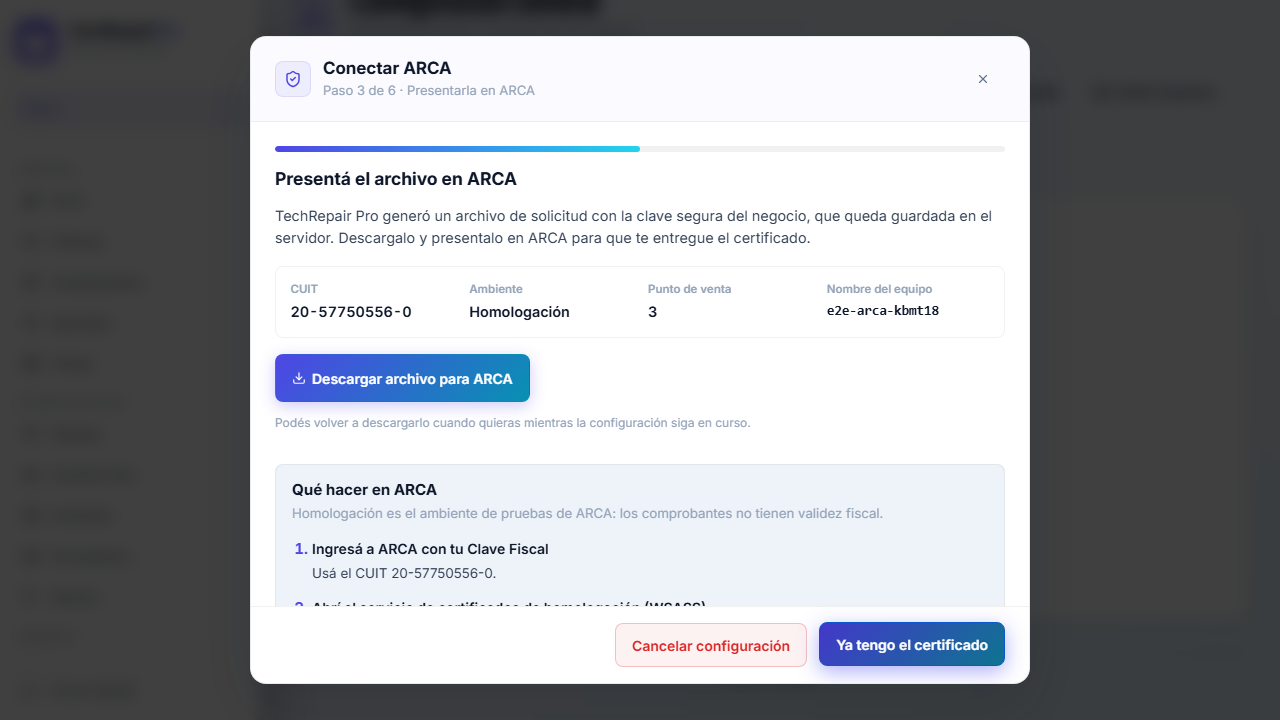
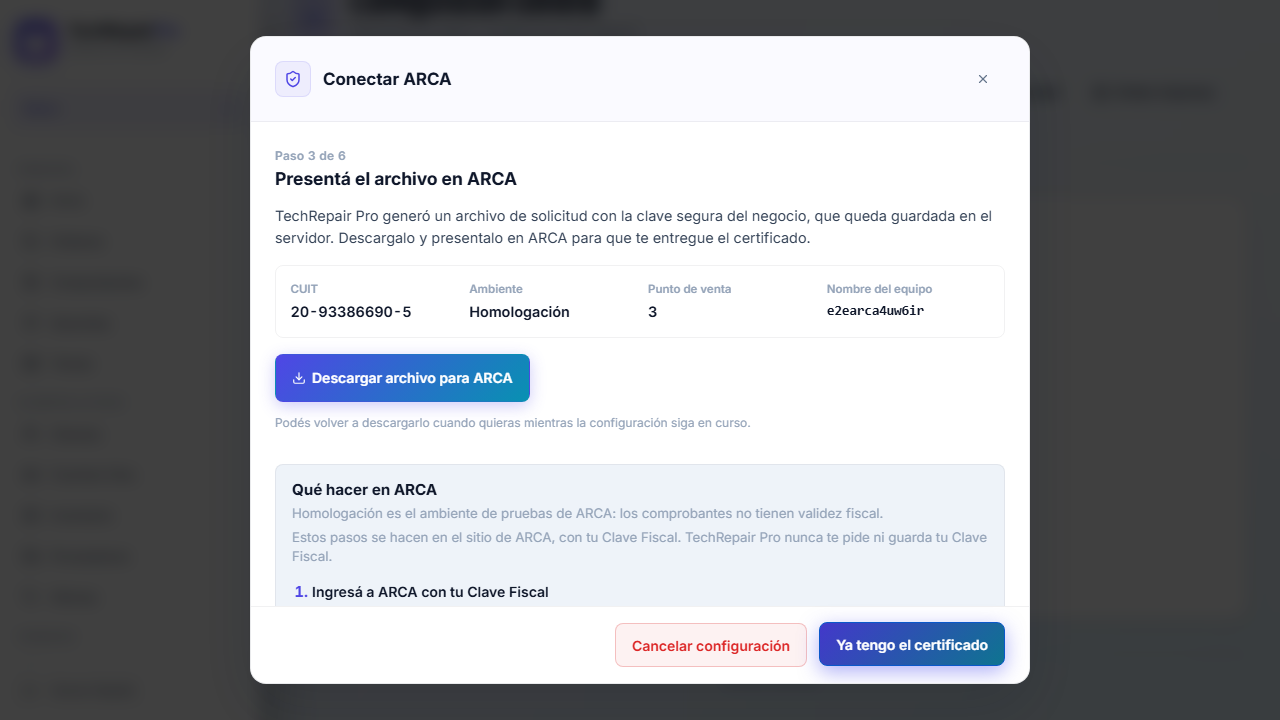
docs(arca): regenerate Phase 2B screenshots after the WSASS follow-up
Screenshots regenerated from the E2E spec with the single step eyebrow
(no progress bar), plus 19 (hyphen alias rejected in homologación),
20 (certificate issued with another name) and 21 (WSASS guide notes).
Guide copy fix: "con el contenido del archivo que descargaste".

Local verification on an isolated stack: full m7-local E2E 173/173,
ARCA 2B spec 10/10 on repeated runs.

diff --git a/src/lib/arcaSetupGuide.ts b/src/lib/arcaSetupGuide.ts
@@ -64,7 +64,7 @@ export function buildArcaSetupGuide(input: {
         {
           key: 'certificate',
           title: 'Creá el certificado con el archivo',
-          detail: `Usá exactamente el mismo nombre de equipo que muestra TechRepair Pro: en homologación sólo lleva letras y números. Si es la primera vez que usás ese nombre, creá el certificado normalmente con el contenido de ${file}. Guardá el certificado que te devuelve ARCA.`,
+          detail: `Usá exactamente el mismo nombre de equipo que muestra TechRepair Pro: en homologación sólo lleva letras y números. Si es la primera vez que usás ese nombre, creá el certificado normalmente con el contenido ${input.filename ? `de ${input.filename}` : 'del archivo que descargaste'}. Guardá el certificado que te devuelve ARCA.`,
           copyValue: aliasCopy,
           note: 'Si ese nombre ya existe en WSASS y estás cargando un archivo nuevo, no lo crees de nuevo: usá «agregar certificado a DN existente» con el archivo nuevo.',
         },

diff --git a/docs/arca-selfservice-phase2b/README.md b/docs/arca-selfservice-phase2b/README.md
@@ -232,7 +232,9 @@ tech, sales, cashier, viewer, inactive owner/admin, other tenant) is enforced an
 `status.can_manage`.
 
 Screenshots: `docs/arca-selfservice-phase2b/screenshots/` (generated by the spec into `test-results/` and copied once,
-so later E2E runs never overwrite versioned PNGs).
+so later E2E runs never overwrite versioned PNGs). All were regenerated after the step indicator change.
+The new ones are `19-alias-homologacion-invalido`, `20-nombre-del-certificado-no-coincide` and
+`21-guia-homologacion-dn-existente`.
 
 ### Homologación smoke with real ARCA — PASSED (2026-09-15)
 
